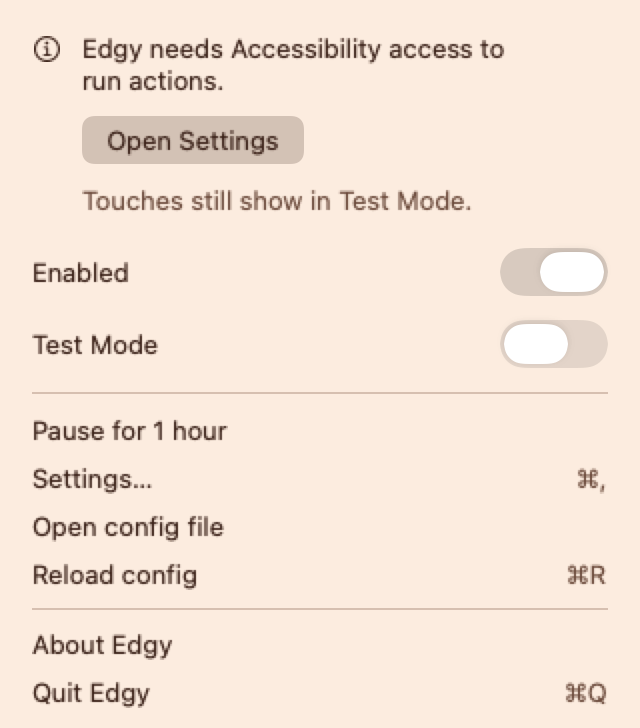
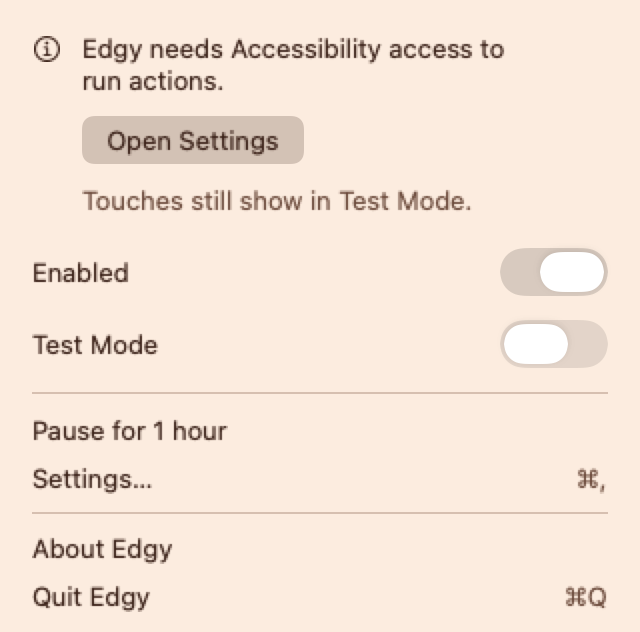
batch 21: popover list without config rows, broken-config recovery without Reload, live profile from model, touch filter, label wrap fallback, batch-21 integrated shots

diff --git a/Tests/EdgyUITests/Window/Batch21SnapshotTests.swift b/Tests/EdgyUITests/Window/Batch21SnapshotTests.swift
@@ -1,0 +1,223 @@
+import Actions
+import AppKit
+import EdgyCore
+import EdgyRuntime
+import Foundation
+import SwiftUI
+import Testing
+
+@testable import EdgyUI
+
+/// Invented apps whose bundles exist on disk, so app marks and icons draw. Each is an empty `.app`
+/// folder in the test's temporary directory (the system gives it the generic app icon); nothing
+/// outside the temp folder is touched, and no real product's icon is shown.
+@MainActor
+enum IconApps {
+  static let root = FileManager.default.temporaryDirectory.appendingPathComponent("edgy-batch21-apps")
+
+  static func app(_ name: String, _ bundleID: String, running: Bool) -> InstalledApp {
+    let url = root.appendingPathComponent("\(name).app")
+    let contents = url.appendingPathComponent("Contents")
+    try? FileManager.default.createDirectory(at: contents, withIntermediateDirectories: true)
+    let plist: [String: String] = [
+      "CFBundleIdentifier": bundleID, "CFBundleName": name, "CFBundlePackageType": "APPL",
+    ]
+    (plist as NSDictionary).write(to: contents.appendingPathComponent("Info.plist"), atomically: true)
+    return InstalledApp(name: name, bundleID: bundleID, path: url.path, isRunning: running)
+  }
+
+  static var list: [InstalledApp] {
+    [
+      app("Wayfare", PreviewFixtures.wayfare, running: true),
+      app("Huddle", PreviewFixtures.huddle, running: false),
+      app("Quillpad", "com.example.quillpad", running: true),
+      app("Ledgerly", "com.example.ledgerly", running: false),
+    ]
+  }
+}
+
+/// Batch 21's integrated shots in `docs/design/build-shots/batch-21/`, light and dark.
+@MainActor
+@Suite(.serialized)
+struct Batch21SnapshotTests {
+  static let folder = "batch-21"
+  static let now = Date(timeIntervalSinceReferenceDate: 800_000_000)
+
+  private func window(
+    _ model: SettingsModel, conditions: WindowConditions = .normal, _ name: String
+  ) throws {
+    let view = SettingsWindowView(model: model, apps: IconApps.list).environment(\.windowConditions, conditions)
+    let urls = try Snapshot.write(view, folder: Self.folder, name: name, size: SettingsWindowView.minimumSize)
+    #expect(urls.count == 2)
+  }
+
+  // MARK: The window in each state
+
+  @Test func windowDefault() throws {
+    let model = PreviewFixtures.model()
+    model.selectedZone = .edge(.right)
+    // Render A shows the right edge's slide open (as if clicked).
+    model.inspectorDrafts.open = InspectorDrafts.Key(
+      profile: .default, binding: BindingKey(zone: .edge(.right), gesture: .slide))
+    try window(model, "window-default")
+  }
+
+  @Test func windowLiveTouchOnTheRightEdge() throws {
+    let model = PreviewFixtures.model()
+    model.selectedZone = .edge(.right)
+    model.simulate(MirrorFixtures.touch(0.975, 0.68, .claimed))
+    try window(model, "window-live-right")
+  }
+
+  @Test func windowPickerOnTheBottomEdge() throws {
+    let model = PreviewFixtures.model()
+    model.selectedZone = .edge(.bottom)
+    model.picking = PickerTarget(zone: .edge(.bottom), gesture: .tap)
+    try window(model, "window-picker-bottom")
+  }
+
+  @Test func wayfareTab() throws {
+    let model = PreviewFixtures.model()
+    model.selectProfile(.app(PreviewFixtures.wayfare))
+    model.selectedZone = .edge(.bottom)
+    try window(model, "tab-wayfare")
+  }
+
+  @Test func huddleOff() throws {
+    let model = PreviewFixtures.model()
+    model.selectProfile(.app(PreviewFixtures.huddle))
+    try window(model, "tab-huddle-off")
+  }
+
+  @Test func paused() throws {
+    let model = PreviewFixtures.model()
+    model.simulate(WindowFixtures.status(paused: true, pausedUntil: Date().addingTimeInterval(47 * 60 + 30)))
+    try window(model, "state-paused")
+  }
+
+  @Test func noTrackpad() throws {
+    let model = PreviewFixtures.model()
+    model.selectedZone = .edge(.right)
+    model.simulate(WindowFixtures.status(devices: []))
+    try window(model, "state-no-trackpad")
+  }
+
+  @Test func disabled() throws {
+    var config = PreviewFixtures.demoConfig
+    config.app.enabled = false
+    let model = PreviewFixtures.model(config: config)
+    model.selectedZone = .edge(.right)
+    try window(model, "state-disabled")
+  }
+
+  @Test func brokenConfig() throws {
+    let model = PreviewFixtures.model()
+    model.selectedZone = .edge(.right)
+    let problem = ConfigProblem(
+      EdgyRuntime.ConfigProblem(message: "Unexpected character 'x' around line 14, column 3.", line: 14))
+    try window(model, conditions: WindowConditions(configProblem: problem), "issue-broken-config")
+  }
+
+  @Test func advanced() throws {
+    try Snapshot.write(AdvancedSettingsView(model: PreviewFixtures.model()), folder: Self.folder, name: "advanced")
+  }
+
+  @Test func addAppWithIcons() throws {
+    let model = PreviewFixtures.model()
+    let apps = IconApps.list
+    try Snapshot.write(
+      AddAppView(model: model, apps: apps).background(WindowMaterial()), folder: Self.folder, name: "add-app-step1")
+    try Snapshot.write(
+      AddAppView(model: model, apps: apps, step: .startFrom(apps[2])).background(WindowMaterial()),
+      folder: Self.folder, name: "add-app-step2")
+  }
+
+  /// The longest parameter labels at the real inspector width: one line each, never mid-word.
+  @Test func longParameterLabelsAtTheRealWidth() throws {
+    var config = PreviewFixtures.demoConfig
+    config.defaultProfile.bindings.append(Binding(zone: .edge(.top), gesture: .slide, action: "apps.switcher"))
+    let model = PreviewFixtures.model(config: config)
+    model.selectedZone = .edge(.top)
+    model.inspectorDrafts.open = InspectorDrafts.Key(
+      profile: .default, binding: BindingKey(zone: .edge(.top), gesture: .slide))
+    try window(model, "inspector-long-labels")
+  }
+
+  // MARK: Mirrors
+
+  @Test func presetWindowsAndMinimal() throws {
+    for (name, config) in [("preset-windows", Presets.windows), ("preset-minimal", Presets.minimal)] {
+      try Snapshot.write(
+        PresetMirrorView(config: config).padding(16).background(Tokens.windowTint), folder: Self.folder, name: name)
+    }
+  }
+
+  @Test func pointerTouchInTheMiddleIsNotDrawn() throws {
+    let model = PreviewFixtures.model()
+    model.simulate(MirrorFixtures.touch(0.5, 0.5, .down))
+    try Snapshot.write(
+      PadMirrorView(model: model).padding(28).background(Tokens.windowTint), folder: Self.folder,
+      name: "pad-pointer-touch-hidden")
+  }
+
+  // MARK: Popover at its real size
+
+  private func popover(_ name: String, model: SettingsModel, state: MenuBarState = MenuBarState()) throws {
+    state.now = { Self.now }
+    if state.accessibility == .unknown { state.accessibility = .granted }
+    if state.installedApps.isEmpty { state.installedApps = IconApps.list }
+    let urls = try Snapshot.write(MenuPopoverView(model: model).environment(state), folder: Self.folder, name: name)
+    #expect(urls.count == 2)
+  }
+
+  @Test func popoverNormalAndChips() throws {
+    try popover("popover-normal", model: PreviewFixtures.model())
+    let live = PreviewFixtures.model()
+    live.frontmostBundleID = PreviewFixtures.wayfare
+    try popover("popover-app-chip-live", model: live)
+  }
+
+  @Test func popoverDisabledFadesOnce() throws {
+    var config = PreviewFixtures.demoConfig
+    config.app.enabled = false
+    try popover("popover-disabled", model: PreviewFixtures.model(config: config))
+  }
+
+  @Test func popoverLastTouch() throws {
+    let model = PreviewFixtures.model()
+    model.simulate(MirrorFixtures.touch(0.975, 0.55, .claimed))
+    model.simulate(
+      LiveFeedUpdate(
+        touches: LiveTouchFrame(deviceID: PreviewFixtures.externalPad.id, timestamp: 2, touches: []), decisions: []))
+    try popover("popover-last-touch", model: model)
+  }
+
+  @Test func popoverUnavailableZoneIsUnmapped() throws {
+    var config = PreviewFixtures.demoConfig
+    config.defaultProfile.bindings.append(
+      Binding(zone: .corner(.bottomLeft), gesture: .doubleTap, action: "keyboard.backlightToggle"))
+    try popover("popover-unavailable-unmapped", model: InspectorFixtures.model(config: config))
+  }
+
+  @Test func popoverPausedPlusTestMode() throws {
+    let model = PreviewFixtures.model()
+    model.simulate(
+      EngineStatus(
+        running: true, paused: true, pausedUntil: Self.now.addingTimeInterval(47 * 60 + 20), enabled: true,
+        devices: [PreviewFixtures.externalPad], testMode: true))
+    let state = MenuBarState()
+    state.setTestMode(true, model: model)
+    try popover("popover-paused-test-mode", model: model, state: state)
+    #expect(state.glyphState(model: model) == .paused)
+  }
+
+  @Test func popoverNoAccessibilityPlusBrokenConfig() throws {
+    let model = PreviewFixtures.model()
+    let state = MenuBarState()
+    state.accessibility = .denied
+    state.configProblem = ConfigProblem(
+      EdgyRuntime.ConfigProblem(message: "Unexpected character 'x' around line 14, column 3.", line: 14))
+    try popover("popover-no-access-broken-config", model: model, state: state)
+    #expect(PopoverTop.resolve(state: state, model: model) == .brokenConfig(state.configProblem!))
+  }
+}

diff --git a/Sources/EdgyUI/Popover/MenuPopoverView.swift b/Sources/EdgyUI/Popover/MenuPopoverView.swift
@@ -49,8 +49,8 @@ public struct MenuPopoverView: View {
     case .brokenConfig(let problem):
       VStack(alignment: .leading, spacing: 0) {
         IssueBlock(symbol: "exclamationmark.circle", text: problem.sentence, detail: nil) {
+          // Recovery only; the file watcher reloads on save, so there's no Reload (bone 10).
           Button("Open config file") { actions.openConfigFile() }
-          Button("Reload") { actions.reloadConfig() }
         }
         switches
       }
@@ -102,7 +102,8 @@ public struct MenuPopoverView: View {
 
   private var chips: some View {
     ChipFlow(spacing: PopoverMetrics.chipGap) {
-      ForEach(ProfileChip.chips(model: model, frontmost: state.frontmost(model: model), apps: state.installedApps)) { chip in
+      ForEach(ProfileChip.chips(model: model, frontmost: state.frontmost(model: model), apps: state.installedApps)) {
+        chip in
         ChipView(chip: chip) {
           model.selectProfile(chip.ref)
           actions.openSettings()

diff --git a/Sources/EdgyUI/Mirror/MiniMirrorView.swift b/Sources/EdgyUI/Mirror/MiniMirrorView.swift
@@ -64,7 +64,8 @@ public struct MiniMirrorView: View {
     let device = model.mirroredDevice
     let sizeMM =
       state == .noTrackpad
-      ? MirrorGeometry.defaultSensorSizeMM : device?.sensorSizeMM ?? model.lastKnownPadSizeMM ?? lastKnownSize ?? MirrorGeometry.defaultSensorSizeMM
+      ? MirrorGeometry.defaultSensorSizeMM
+      : device?.sensorSizeMM ?? model.lastKnownPadSizeMM ?? lastKnownSize ?? MirrorGeometry.defaultSensorSizeMM
     let geometry = MirrorGeometry(
       sensorSizeMM: sizeMM, settings: model.editor.config.gestures, pointsPerMM: Tokens.miniMirrorPointsPerMM)
     ZStack {
